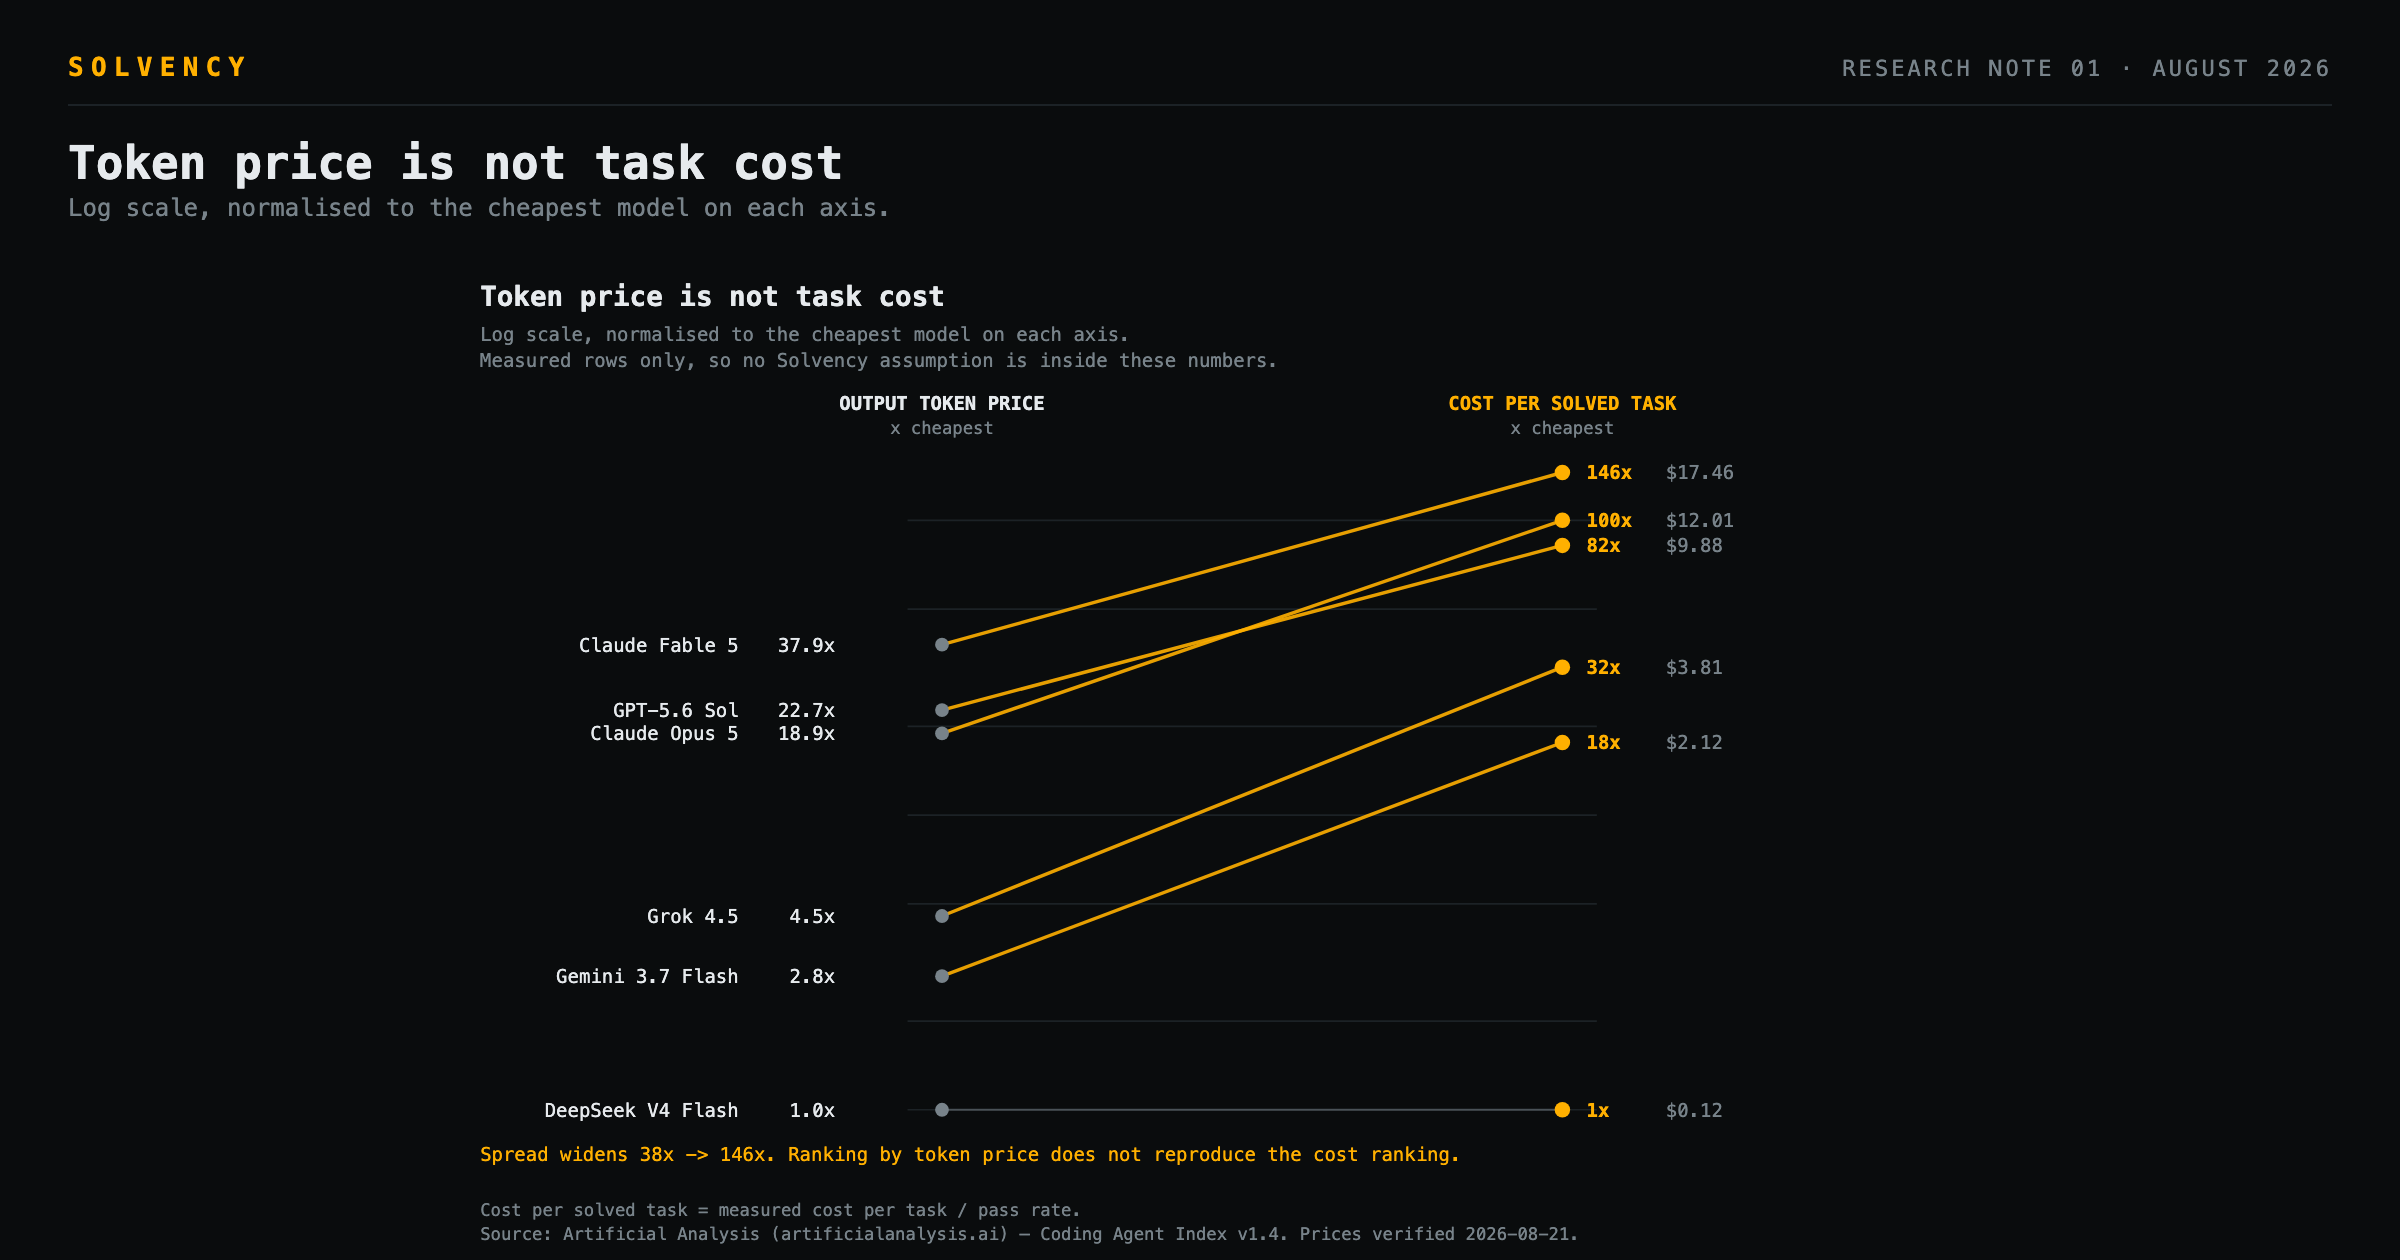
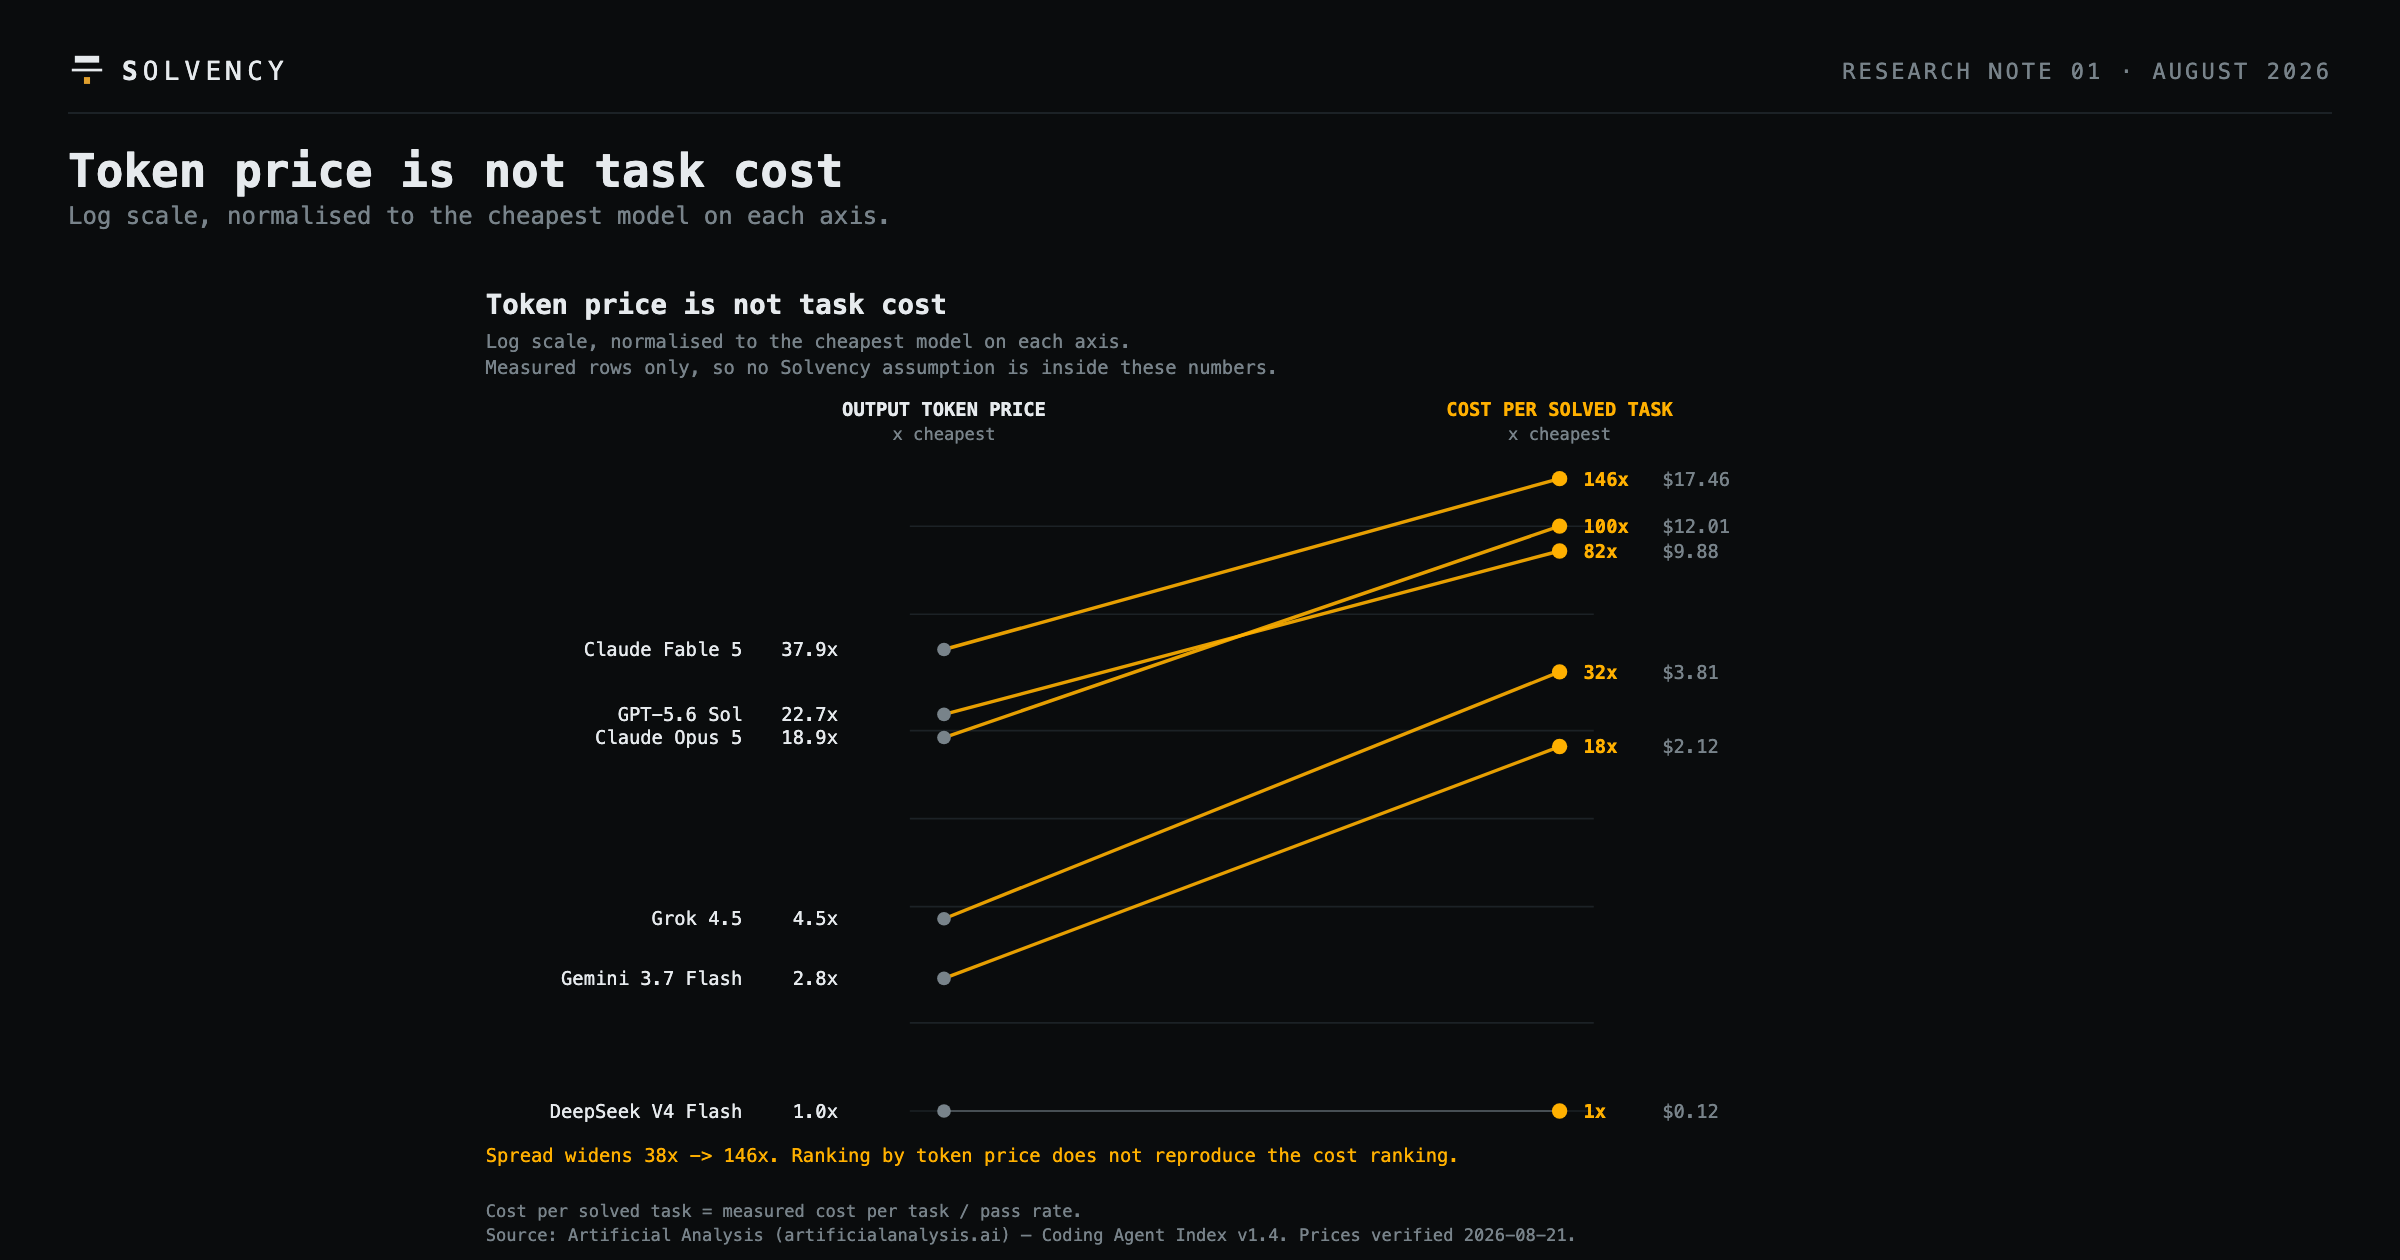
Adopt the Solvency mark across the site, social cards and the report
Replaces the improvised letter-S favicon and the text-only wordmark with the
real identity: a balance — beam, fulcrum, and the weight that settles it.

The mark is inlined as a component rather than served as an image so it
themes itself. The brand supplies the same artwork twice, differing only in
bar colour (mark.svg for light grounds, mark-inverted.svg for dark), so the
bars take currentColor and follow the surrounding text while the amber weight
stays fixed at #E0A02E — the one colour constant across both variants, and
deliberately not a theme token, since a logo that changes hue with the page
is not a logo.

The wordmark now follows the supplied lockup: a bold S against a regular
remainder, all in ink. It no longer borrows the accent, which also stops the
brand and 'measured data' sharing a colour in the chrome.

Applied to the favicon (SVG with PNG and apple-touch fallbacks), the nav and
footer lockups, the 1200x630 social cards, and the report PDF's cover,
tagline and figure footers.

diff --git a/scripts/render-pdf.ts b/scripts/render-pdf.ts
@@ -13,6 +13,15 @@ import { readFileSync, writeFileSync, mkdirSync, existsSync } from 'node:fs';
 import { execFileSync, spawn } from 'node:child_process';
 import { dirname, join, resolve, basename } from 'node:path';
 
+const BRAND_AMBER = '#E0A02E';
+/** The Solvency mark, inline. Bars take the caller's ink; the weight is fixed. */
+const markSvg = (pt: string, bars: string) =>
+  `<svg width="${pt}" height="${pt}" viewBox="0 0 100 100" style="display:block;flex:none">` +
+  `<rect x="18" y="10" width="64" height="18" fill="${bars}"/>` +
+  `<rect x="10" y="44" width="80" height="7" fill="${bars}"/>` +
+  `<rect x="42" y="66" width="16" height="18" fill="${BRAND_AMBER}"/></svg>`;
+
+
 const src = resolve(process.argv[2] ?? 'reports/2026-08-cost-per-solved-task.md');
 /** Frontmatter feeds the website; the PDF builds its cover from the body below it. */
 const rawFile = readFileSync(resolve(process.argv[2] ?? 'reports/2026-08-cost-per-solved-task.md'), 'utf8');
@@ -65,7 +74,7 @@ function inlineSvg(rel: string, alt: string): string {
   <div class="chart-plot">${svg}</div>
   <div class="chart-foot">
     <span>${sources.map(esc).join(' ')}</span>
-    <span class="mark">SOLVENCY</span>
+    <span class="mark">${markSvg('7.5pt', 'var(--ink)')}<span><b>S</b>OLVENCY</span></span>
   </div>
 </figure>`;
 }
@@ -170,7 +179,9 @@ const CSS = `
   .hero { flex: 1; margin-top: 15pt; background: var(--card); border: .75pt solid var(--rule);
           border-radius: 7pt; overflow: hidden; display:flex; flex-direction:column; }
   .hero-top { display:flex; justify-content:space-between; align-items:flex-start; padding: 17pt 19pt 0; }
-  .hero-mark { font-family: var(--mono); font-weight:700; letter-spacing:.26em; font-size: 8.5pt; color: var(--ink); }
+  .hero-mark { font-family: var(--mono); font-weight:400; letter-spacing:.2em; font-size: 8.5pt; color: var(--ink);
+               display:inline-flex; align-items:center; gap:5pt; }
+  .hero-mark b { font-weight:700; }
   .hero-no { font-family: var(--mono); font-size: 9pt; letter-spacing:.1em; color: var(--ink); text-align:right; line-height:1.45; }
   .hero-mid { flex:1; display:flex; align-items:center; justify-content:center; padding: 0 30pt; }
   .hero-title { font-family: var(--mono); font-size: 20pt; letter-spacing:.15em; color: var(--ink);
@@ -179,7 +190,9 @@ const CSS = `
   .tagline { margin-top: 9pt; background: var(--card); border:.75pt solid var(--rule); border-radius: 7pt;
              padding: 12pt 17pt; display:flex; justify-content:space-between; align-items:center;
              font-family: var(--mono); font-size: 8.4pt; color: var(--ink); }
-  .tagline .mark { font-weight:700; letter-spacing:.2em; font-size:7pt; color: var(--muted); }
+  .tagline .mark { font-weight:400; letter-spacing:.18em; font-size:7pt; color: var(--muted);
+                   display:inline-flex; align-items:center; gap:4pt; }
+  .tagline .mark b { font-weight:700; }
   .cover-foot { display:flex; gap: 20pt; margin-top: 10pt; font-family: var(--mono);
                 font-size: 7pt; line-height:1.5; color: var(--muted); }
   .cover-foot > div { flex: 0 0 auto; }
@@ -236,7 +249,9 @@ const CSS = `
   .chart-foot { margin-top: 9pt; border-top:.5pt solid var(--rule); padding: 7pt 0 12pt;
                 display:flex; justify-content:space-between; gap: 14pt;
                 font-family: var(--mono); font-size: 6.7pt; color: var(--muted); }
-  .chart-foot .mark { font-weight:700; letter-spacing:.19em; color: var(--ink); white-space:nowrap; }
+  .chart-foot .mark { font-weight:400; letter-spacing:.17em; color: var(--ink); white-space:nowrap;
+                      display:inline-flex; align-items:center; gap:4pt; }
+  .chart-foot .mark b { font-weight:700; }
 
 `;
 
@@ -252,7 +267,7 @@ ${FONTS}<style>${CSS}</style></head><body>
   </div>
   <div class="hero">
     <div class="hero-top">
-      <span class="hero-mark">SOLVENCY</span>
+      <span class="hero-mark">${markSvg('11pt', 'var(--ink)')}<span><b>S</b>OLVENCY</span></span>
       <span class="hero-no">RESEARCH<br>NOTE&#8202;&#8211;&#8202;01</span>
     </div>
     <div class="hero-mid"><div class="hero-title">COST PER<br>SOLVED TASK</div></div>
@@ -260,7 +275,7 @@ ${FONTS}<style>${CSS}</style></head><body>
   </div>
   <div class="tagline">
     <span>The denominator is the whole story.</span>
-    <span class="mark">SOLVENCY</span>
+    <span class="mark">${markSvg('8pt', 'var(--muted)')}<span><b>S</b>OLVENCY</span></span>
   </div>
   <dl class="cover-foot">
     <div><dt>Verified</dt><dd>2026-08-21</dd></div>

diff --git a/scripts/png.ts b/scripts/png.ts
@@ -17,6 +17,14 @@ const CHROME = '/Applications/Google Chrome.app/Contents/MacOS/Google Chrome';
 const META = JSON.parse(readFileSync(join(ROOT, 'reports', 'charts-light', 'meta.json'), 'utf8'));
 
 const BG = '#0A0C0D', INK = '#E6EAED', MUTED = '#78838A', ACCENT = '#FFB000';
+const BRAND_AMBER = '#E0A02E';
+/** The Solvency mark, inline. `bars` lets a light card reuse it unchanged. */
+const markSvg = (px: number, bars: string) =>
+  `<svg width="${px}" height="${px}" viewBox="0 0 100 100" aria-hidden="true">` +
+  `<rect x="18" y="10" width="64" height="18" fill="${bars}"/>` +
+  `<rect x="10" y="44" width="80" height="7" fill="${bars}"/>` +
+  `<rect x="42" y="66" width="16" height="18" fill="${BRAND_AMBER}"/></svg>`;
+
 const MONO = "'JetBrains Mono','SFMono-Regular',Menlo,Consolas,monospace";
 
 mkdirSync(OUT, { recursive: true });
@@ -51,9 +59,12 @@ for (const f of files) {
     html,body{margin:0;width:1200px;height:630px;background:${BG};
       font-family:${MONO};overflow:hidden}
     .wrap{height:630px;display:flex;flex-direction:column;padding:26px 34px 20px}
-    .top{display:flex;justify-content:space-between;align-items:baseline;
+    .top{display:flex;justify-content:space-between;align-items:center;
       border-bottom:1px solid #1C2226;padding-bottom:11px}
-    .mark{color:${ACCENT};font-weight:700;letter-spacing:.28em;font-size:13px}
+    .lockup{display:flex;align-items:center;gap:8px;color:${INK}}
+    .lockup svg{display:block}
+    .mark{color:${INK};font-weight:400;letter-spacing:.2em;font-size:13px}
+    .mark b{font-weight:700}
     .note{color:${MUTED};font-size:11px;letter-spacing:.14em}
     .title{color:${INK};font-size:23px;font-weight:700;margin:15px 0 2px}
     .sub{color:${MUTED};font-size:12px}
@@ -63,7 +74,7 @@ for (const f of files) {
       display:flex;justify-content:space-between}
   </style>
   <div class="wrap">
-    <div class="top"><span class="mark">SOLVENCY</span><span class="note">RESEARCH NOTE 01 · AUGUST 2026</span></div>
+    <div class="top"><span class="lockup">${markSvg(19, INK)}<span class="mark"><b>S</b>OLVENCY</span></span><span class="note">RESEARCH NOTE 01 · AUGUST 2026</span></div>
     <div class="title">${m?.title ?? key}</div>
     <div class="sub">${(m?.subtitle ?? [])[0] ?? ''}</div>
     <div class="plot">${svg}</div>

diff --git a/site/src/styles/global.css b/site/src/styles/global.css
@@ -18,7 +18,7 @@
   --color-rule: #232B31;
   --color-rule-strong: #333D45;  /* axes, section dividers */
   --color-control-border: #5A6670; /* form-control boundaries: 3.1:1 on panel (WCAG 1.4.11) */
-  --color-accent: #FFB000;       /* assertion: wordmark S, CTA fill, measured data */
+  --color-accent: #FFB000;       /* assertion: CTA fill, measured data */
   --color-accent-hover: #FFC23A;
   --color-accent-dim: #A67C22;   /* frontier line */
   --color-on-accent: #0A0C0D;
@@ -133,9 +133,14 @@
   .t-fresh { color: var(--color-fresh); }
   .t-better { color: var(--color-better); }
   .t-worse { color: var(--color-worse); }
-  /* the wordmark: ink, with amber only on the S */
-  .wordmark { font-family: var(--font-mono); font-weight: 700; letter-spacing: .28em; font-size: .8rem; color: var(--color-ink); }
-  .wordmark b { color: var(--color-accent); font-weight: inherit; }
+  /* The lockup: mark + wordmark, set as the brand's own lockup.svg sets it —
+     a bold S against a regular remainder, all in ink. The amber now lives in
+     the mark's weight, so the wordmark no longer borrows the accent (which
+     also stops brand and "measured data" sharing a colour in the chrome). */
+  .lockup { display: inline-flex; align-items: center; gap: .55rem; color: var(--color-ink); }
+  .lockup .logo-mark { flex: none; display: block; }
+  .wordmark { font-family: var(--font-mono); font-weight: 400; letter-spacing: .2em; font-size: .8rem; color: var(--color-ink); }
+  .wordmark b { font-weight: 700; color: inherit; }
 
   /* ---- surfaces ---------------------------------------------------------- */
   .card { background: var(--color-panel); border: 1px solid var(--color-rule); border-radius: 8px; }
